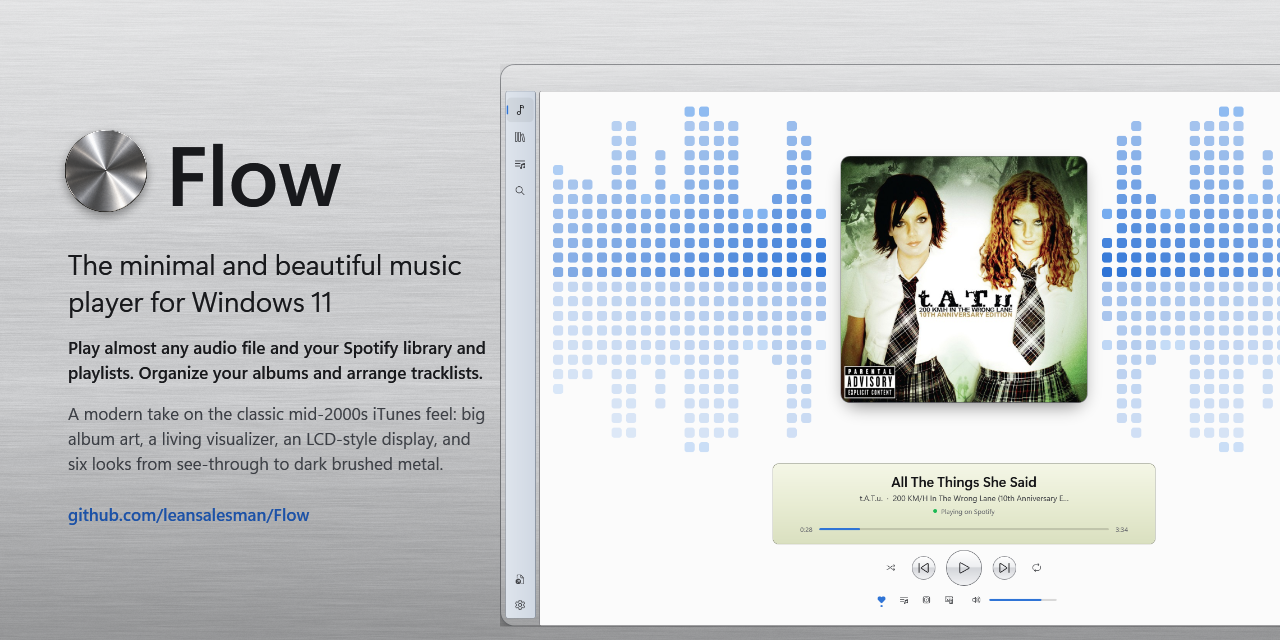
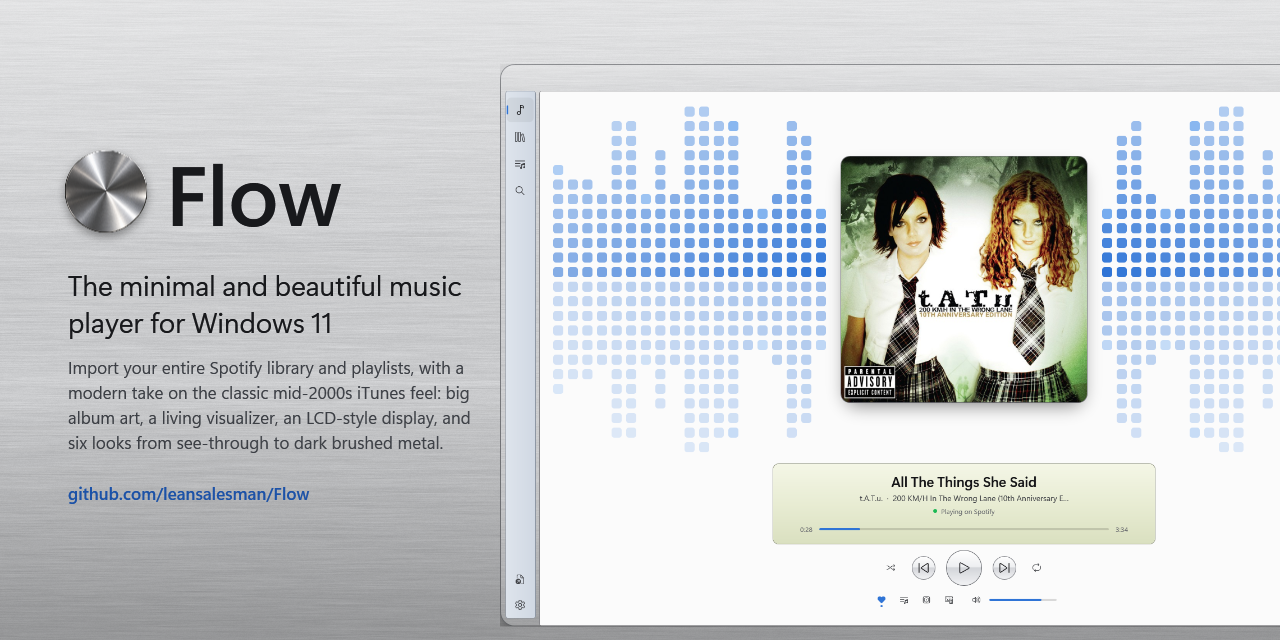
Social preview: one paragraph, leading with importing your Spotify library and playlists

diff --git a/src/Flow/App.Screenshots.cs b/src/Flow/App.Screenshots.cs
@@ -245,13 +245,7 @@ public partial class App
         });
         text.Children.Add(new TextBlock
         {
-            Text = "Play almost any audio file and your Spotify library and playlists. Organize your albums and arrange tracklists.",
-            FontSize = 17, FontWeight = FontWeights.SemiBold, Foreground = dark, TextWrapping = TextWrapping.Wrap, Margin = new Thickness(4, 16, 0, 0),
-            LineHeight = 25, FontFamily = new FontFamily("Segoe UI Variable Text, Segoe UI"),
-        });
-        text.Children.Add(new TextBlock
-        {
-            Text = "A modern take on the classic mid-2000s iTunes feel: big album art, a living visualizer, an LCD-style display, and six looks from see-through to dark brushed metal.",
+            Text = "Import your entire Spotify library and playlists, with a modern take on the classic mid-2000s iTunes feel: big album art, a living visualizer, an LCD-style display, and six looks from see-through to dark brushed metal.",
             FontSize = 17, Foreground = mid, TextWrapping = TextWrapping.Wrap, Margin = new Thickness(4, 16, 0, 0), LineHeight = 25,
             FontFamily = new FontFamily("Segoe UI Variable Text, Segoe UI"),
         });
